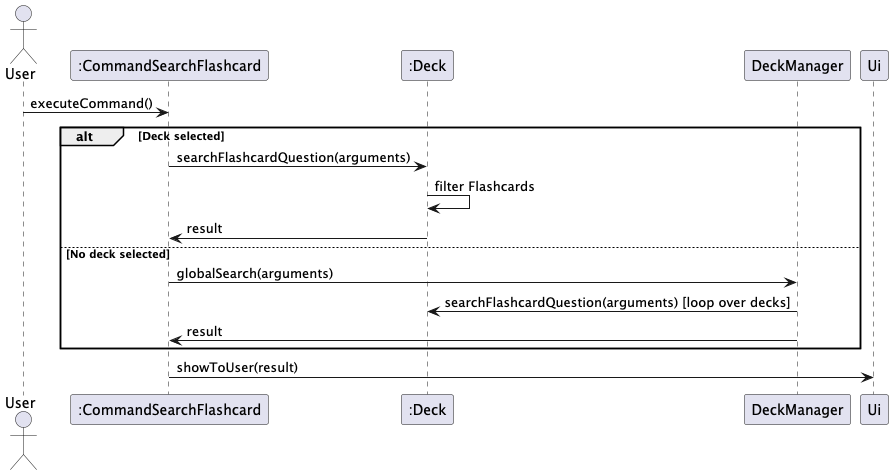
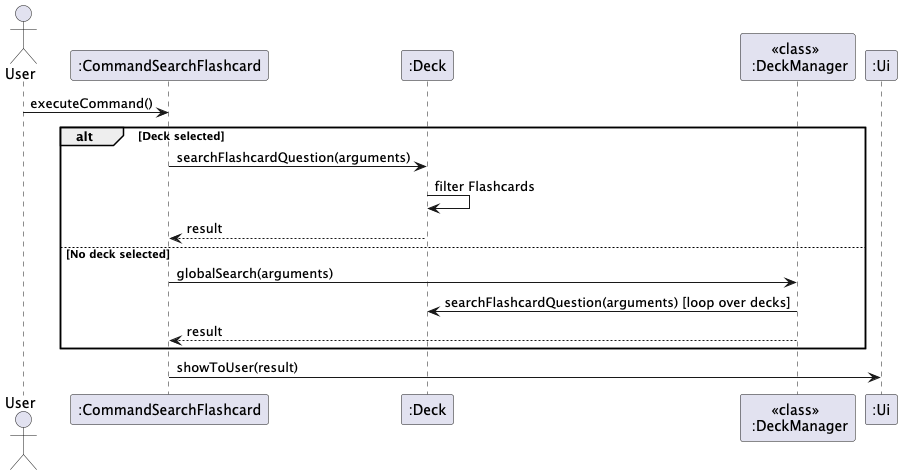
edited PPP and diagrams for dotted lie on return arrows

diff --git a/docs/team/manz9802.md b/docs/team/manz9802.md
@@ -98,13 +98,10 @@ Answer: Java
 #### Design
 
 The flashcard application supports searching for flashcards either within the currently selected deck or globally across all decks.
-
 The search feature is designed with the following constraints:
-
 - Users may search by question (`/q`) and/or answer (`/a`)
 - If no deck is selected, the search is performed globally across all decks
 - If a deck is selected, only that deck is searched
-- The system is case-insensitive and supports partial matches
 
 ##### Class Diagram
 ![](../images/SearchClassDiagram.png)
@@ -120,7 +117,6 @@ The search feature is designed with the following constraints:
 
 The Save/Load functionality ensures persistence of flashcard data between sessions. When the program exits, it serializes all in-memory `Deck` objects into individual `.txt` files in the `./data/decks` directory. Upon startup, it reconstructs the decks by reading and parsing these `.txt` files.
 
-This design allows easy access, portability, and simple debugging via text files, avoiding binary or JSON formats for simplicity.
 
 #### Class Diagram
 
